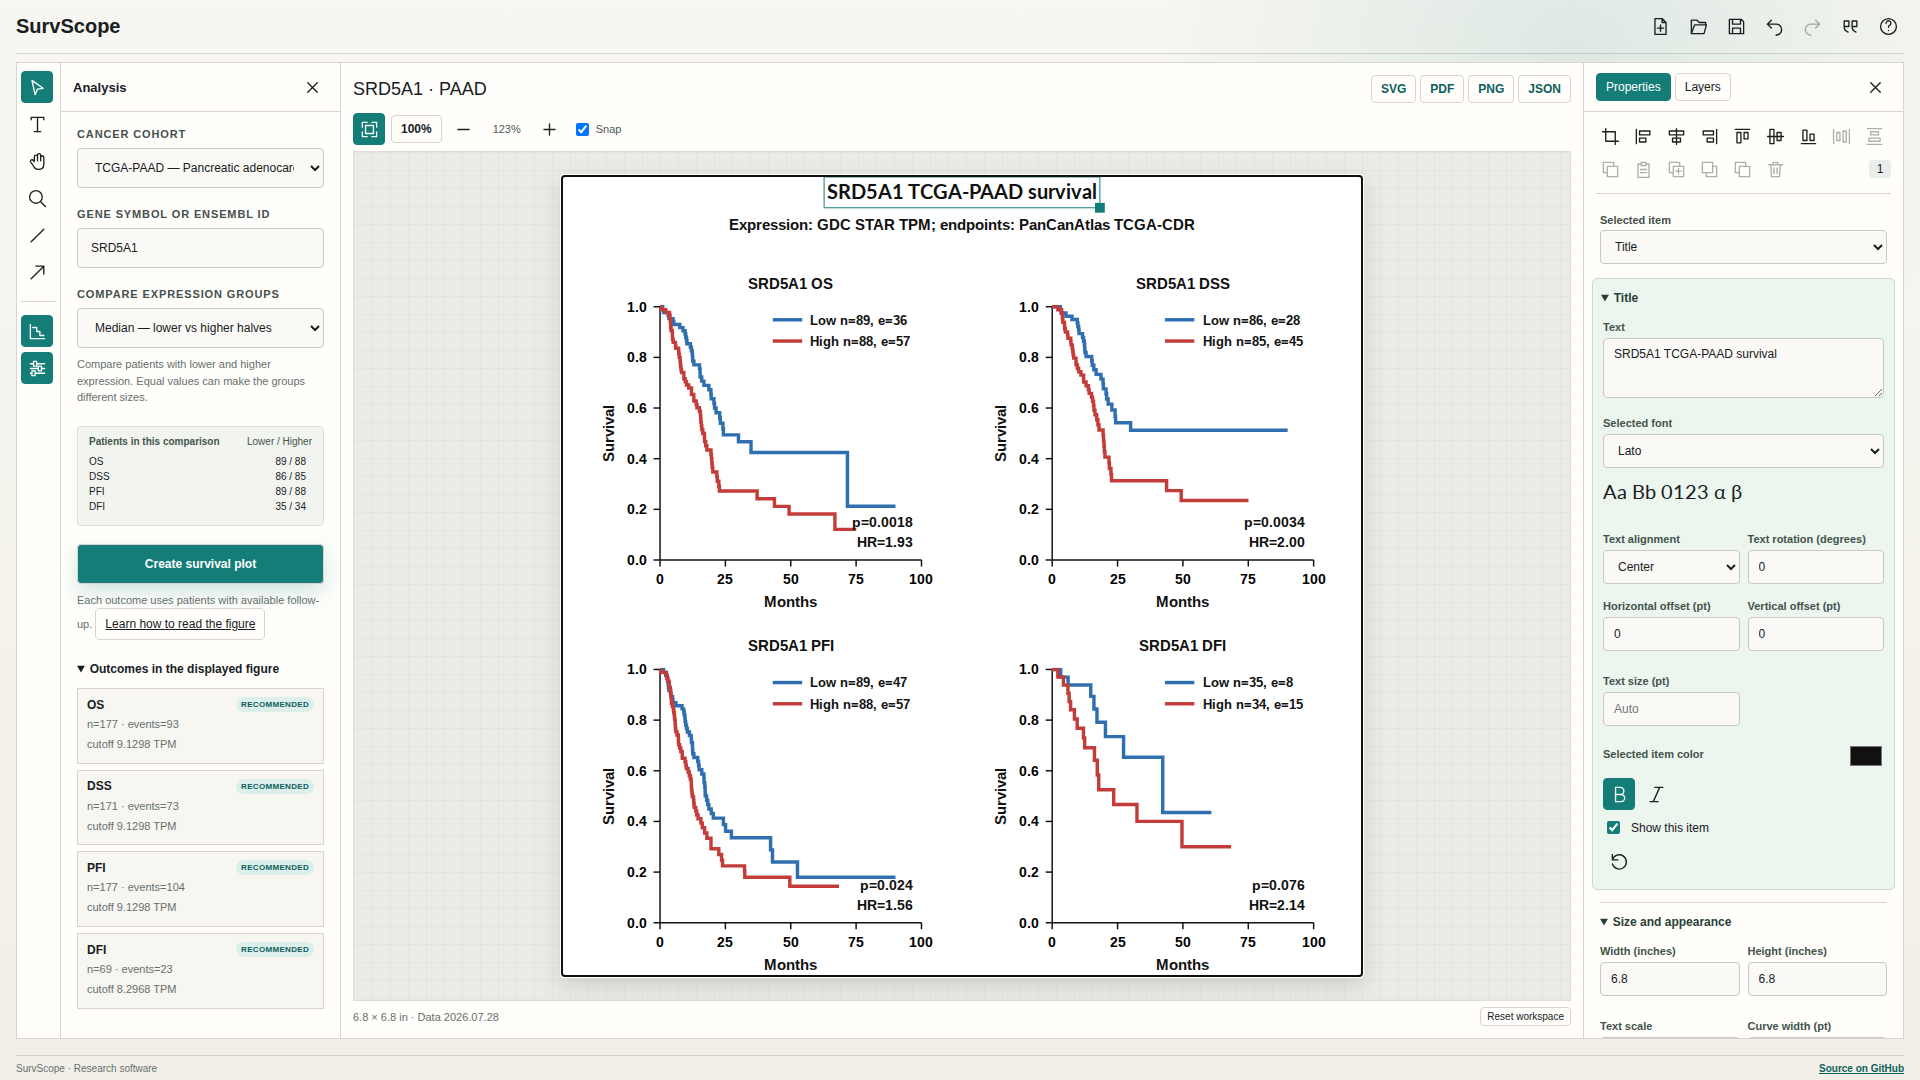
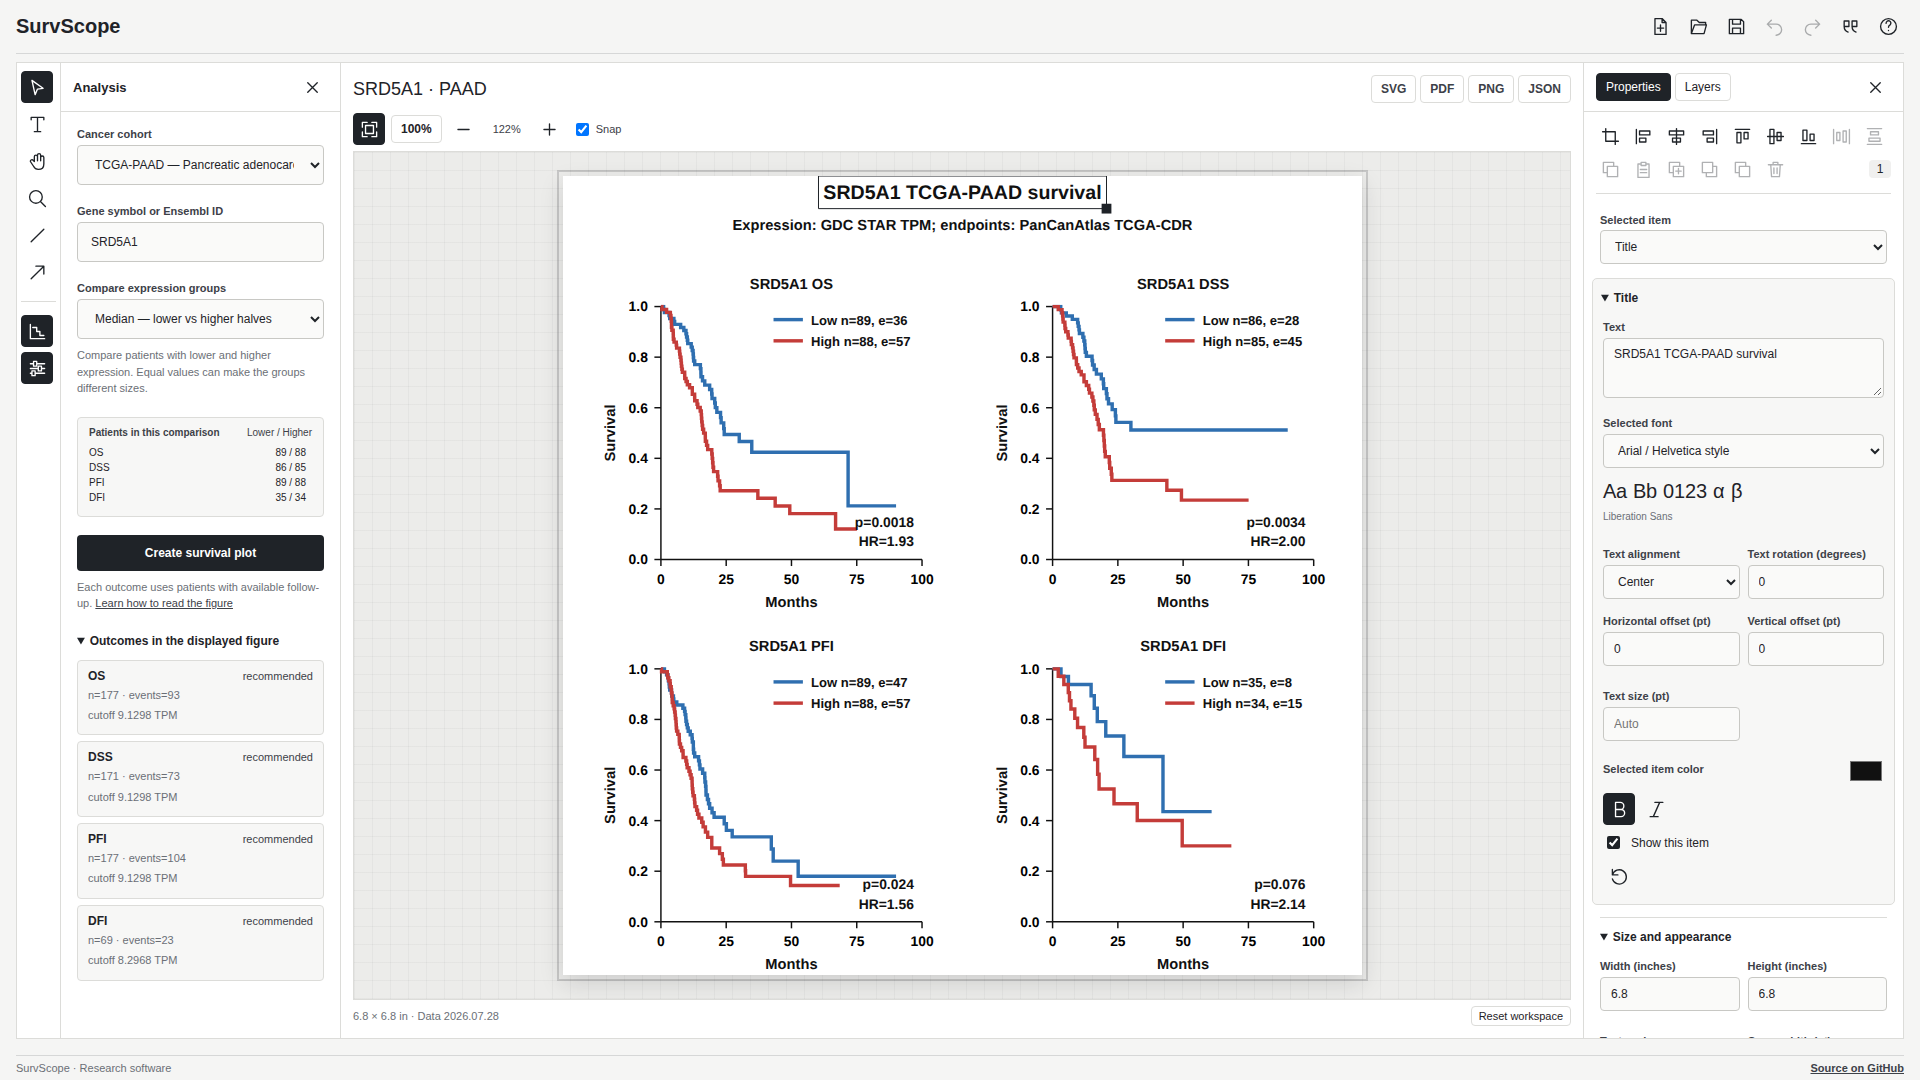
Refresh screenshots, shorten citation notes, and test Python 3.11 and 3.14
Allow pytest 9 and twine 7 in the test extras.

diff --git a/web/src/citations.ts b/web/src/citations.ts
@@ -149,8 +149,8 @@ export function resolveProvenance(
         ? "The results shown here are in whole or part based upon data generated by the TCGA Research Network: https://www.cancer.gov/tcga."
         : "Data used in this publication were generated by the National Cancer Institute Clinical Proteomic Tumor Analysis Consortium (CPTAC).",
     cohortPublicationNote: original.length
-      ? "Cohort-associated publications are listed below. SurvScope uses the eligible patients in its recorded data snapshot; this subset can differ from the publication cohort."
-      : "No cohort-specific publication has been verified for this classification. Cite the source dataset and resource references below.",
+      ? "The analyzed patients can differ from the cohort in the original publication."
+      : "No original cohort publication is verified for this group. Cite the sources below.",
   };
 }
 export function attachProvenance(

diff --git a/web/src/workspace.test.ts b/web/src/workspace.test.ts
@@ -277,7 +277,7 @@ describe("data citations", () => {
     for (const cohort of ["CPTAC-3-RCC", "CPTAC-3-KIRP", "CPTAC-3-OLIGO"])
       expect(
         resolveProvenance({ ...analysis(), cohort }).cohortPublicationNote,
-      ).toContain("No cohort-specific");
+      ).toContain("No original cohort publication");
   });
   test("exports reusable references and methods from the saved analysis, rejecting mismatched provenance", () => {
     const a = attachProvenance(analysis());

diff --git a/web/src/CitationDialog.tsx b/web/src/CitationDialog.tsx
@@ -106,10 +106,6 @@ export function CitationDialog({
             ))}
           </ol>
           <h3>Methods and acknowledgement</h3>
-          <p>
-            This text describes the calculated analysis, including group sizes
-            and exclusions.
-          </p>
           <textarea
             className="citation-methods"
             aria-label="Methods and acknowledgement"

diff --git a/web/src/styles.css b/web/src/styles.css
@@ -218,8 +218,7 @@ button:disabled {
 }
 
 .plot-stage {
-  background:
-    linear-gradient(90deg, rgb(31 35 40 / 4%) 1px, transparent 1px),
+  background: linear-gradient(90deg, rgb(31 35 40 / 4%) 1px, transparent 1px),
     linear-gradient(rgb(31 35 40 / 4%) 1px, transparent 1px), #ececea;
   background-size: 18px 18px;
   border: 1px solid var(--line);
